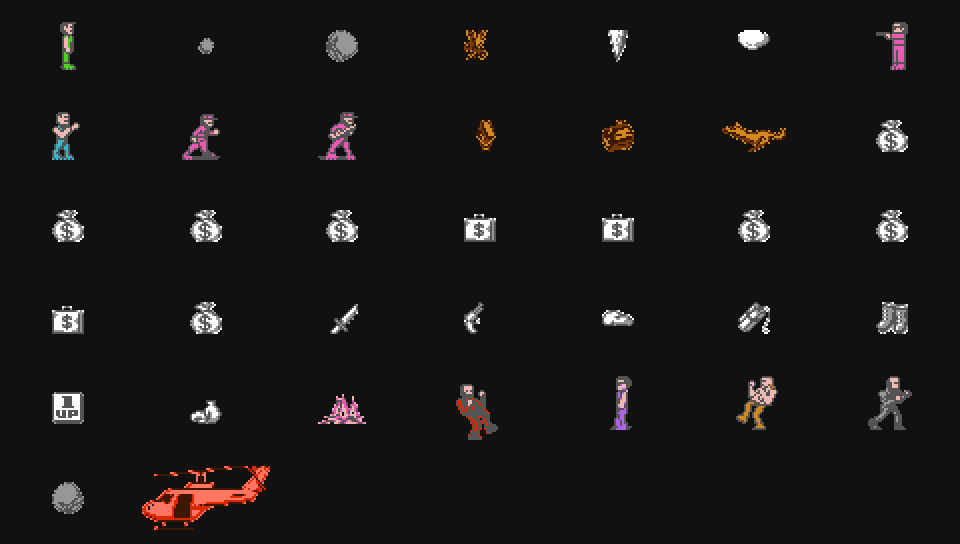
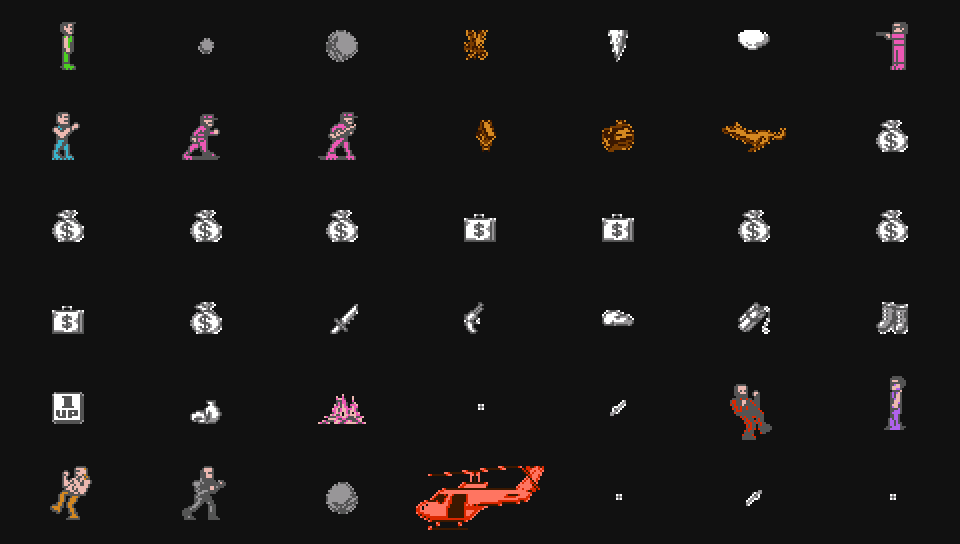
Cliffhanger: the shots and thrown knives in the objects table — the hero's bullet and knife, the henchmen's knife, the tree man's and the helicopter's bullets

diff --git a/cliffhanger/src/objects-table.ts b/cliffhanger/src/objects-table.ts
@@ -81,17 +81,27 @@ ppu.scanline = (line) => {
 /**
  * The objects the lists do not place: each section's own code puts them in a slot (no entry behind
  * it at $6D-$70, or the fifth slot), known by the handler the slot runs (byte 1; a list's kind runs
- * its template's byte 11 there: the bags $10/$11, the wolf $30). The bosses, the helicopter and the
- * falling rocks; not the shots and thrown knives ($01, $03, $33, $34, $36), which are not things on
- * the mountain. Read off the run's frames (STATUS §15).
+ * its template's byte 11 there: the bags $10/$11, the wolf $30). The bosses, the helicopter, the
+ * falling rocks, and the shots and thrown knives — the hero's (his pistol's bullet $01 and his knife
+ * $03, in the fifth slot) and the others' (a henchman's knife $34, the bullet of the one up a tree
+ * $33 — he himself is a list's $06 —, the helicopter's bullet $36): the user asked for those too.
+ * Read off the run's frames (STATUS §15). A shot is one small sprite, maybe in the hero's own tiles
+ * ($40-$7F): the one nearest its place within 16 px (its thrower's hand is often next to it; the
+ * tree man's bullet is drawn 12 px off its place), the hero's tiles going only to his own shots, and
+ * only outside his box (his arm raised to shoot stuck to the helicopter's bullet).
  */
-const CODE: Record<number, { name: string; group: string; big: boolean; note: string }> = {
+const CODE: Record<number, { name: string; group: string; big: boolean; shot?: boolean; note: string }> = {
   0x2a: { name: 'boss', group: 'boss', big: true, note: 'at the cabin, section 5' },
   0x2b: { name: 'boss', group: 'boss', big: true, note: 'on the snow slope, section 8' },
   0x2c: { name: 'boss', group: 'boss', big: true, note: 'in the ice cave, section 11' },
   0x31: { name: 'helicopter', group: 'boss', big: true, note: 'it shoots from above, section 14' },
   0x2d: { name: 'the last boss', group: 'boss', big: true, note: 'the last fight, section 15' },
   0x2f: { name: 'falling rock', group: 'hazard', big: false, note: 'put by the sections’ own code' },
+  0x01: { name: 'bullet', group: 'shot', big: false, shot: true, note: 'the hero’s, from the pistol' },
+  0x03: { name: 'thrown knife', group: 'shot', big: false, shot: true, note: 'the hero’s' },
+  0x33: { name: 'bullet', group: 'shot', big: false, shot: true, note: 'a henchman’s, the one up a tree' },
+  0x34: { name: 'thrown knife', group: 'shot', big: false, shot: true, note: 'the henchmen’s' },
+  0x36: { name: 'bullet', group: 'shot', big: false, shot: true, note: 'the helicopter’s' },
 };
 const codeSections = new Map<number, Set<number>>();
 /**
@@ -117,14 +127,15 @@ for (let f = 985; f <= end; f++) {
   const near = (x: number) => { while (x < cam.x - 512) x += 2048; while (x > cam.x + 1536) x -= 2048; return x; };
   // Every slot on: a list's kind (its entry at $6D-$70), one of the code's (CODE, by its handler at
   // byte 1, as 0x100 + it), or anything else (a shot: -1), which keeps its own sprites.
-  const slots: { kind: number; sx: number; sy: number; big: boolean }[] = [];
+  const slots: { kind: number; sx: number; sy: number; big: boolean; shot: boolean; heroShot: boolean }[] = [];
   for (let k = 0; k < 5; k++) {
     const b = 0x633 + 0x1f * k, idx = k < 4 ? m.ram[0x6d + k] : 0xff;
     if (!(m.ram[b] & 1)) continue;
     const p = pos(b);
     const fromList = idx < 0xfe && (m.ram[0x51e] | m.ram[0x51f]) !== 0;
     const kind = fromList ? prg[base + 9 * idx + 1] : CODE[m.ram[b + 1]] ? 0x100 + m.ram[b + 1] : -1;
-    slots.push({ kind, sx: near(p.x) - cam.x, sy: p.y - cam.y, big: kind >= 0x100 && CODE[kind - 0x100].big });
+    const code = kind >= 0x100 ? CODE[kind - 0x100] : null;
+    slots.push({ kind, sx: near(p.x) - cam.x, sy: p.y - cam.y, big: !!code?.big, shot: !!code?.shot, heroShot: kind === 0x101 || kind === 0x103 });
     if (kind >= 0x100) (codeSections.get(kind) ?? codeSections.set(kind, new Set()).get(kind)!).add(m.ram[0x40a] + 1);
   }
   const pl = pos(0x614);
@@ -158,17 +169,23 @@ for (let f = 985; f <= end; f++) {
   for (let k = 0; k < 64; k++) {
     if (oam[k * 4] >= 0xef) continue;
     const y = oam[k * 4] + 1, x = oam[k * 4 + 3];
-    if (isHero(oam[k * 4 + 1])) continue;
+    // The hero's tiles: his own in his box; outside it only a shot's (his bullet, his knife).
+    const heroTile = isHero(oam[k * 4 + 1]);
+    if (heroTile && x >= qx - 4 && x < qx + 24 && y >= qy - 4 && y < qy + 40) continue;
     let best = -1, bd = Infinity;
     slots.forEach((sl, i) => {
-      if (sl.big ? x < sl.sx - 48 || x >= sl.sx + 72 || y < sl.sy - 40 || y >= sl.sy + 56 : x < sl.sx - 16 || x >= sl.sx + 40 || y < sl.sy - 24 || y >= sl.sy + 40) return;
+      // The hero's tiles outside his box: only his own bullet and knife (his arm raised is above it).
+      if (heroTile && !sl.heroShot) return;
+      if (sl.shot ? x < sl.sx - 16 || x >= sl.sx + 16 || y < sl.sy - 16 || y >= sl.sy + 16 : sl.big ? x < sl.sx - 48 || x >= sl.sx + 72 || y < sl.sy - 40 || y >= sl.sy + 56 : x < sl.sx - 16 || x >= sl.sx + 40 || y < sl.sy - 24 || y >= sl.sy + 40) return;
       const d = Math.hypot(x + 4 - (sl.sx + 8), y + 4 - (sl.sy + 12));
       if (d < bd) (bd = d), (best = i);
     });
     if (best >= 0) (mine.get(best) ?? mine.set(best, []).get(best)!).push([x - slots[best].sx, y - slots[best].sy, oam[k * 4 + 1], oam[k * 4 + 2]]);
   }
-  for (const [i, sprites] of mine) {
+  for (const [i, all] of mine) {
     const sl = slots[i];
+    // A shot is one sprite: the one nearest its place (its thrower's hand is often next to it).
+    const sprites = sl.shot ? [[...all].sort((a, b) => Math.hypot(a[0], a[1]) - Math.hypot(b[0], b[1]))[0]] : all;
     if (sl.kind < 0 || (sl.kind < 0x100 && (!kinds.has(sl.kind) || ITEMS[sl.kind]))) continue;
     // Wholly on the field (a boss's or the helicopter's place may be its top).
     if (sl.big ? sl.sx < 8 || sl.sx > 200 || sl.sy < 8 || sl.sy > 120 : sl.sx < 24 || sl.sx > 200 || sl.sy < 24 || sl.sy > 130) continue;
@@ -303,7 +320,7 @@ for (const [t, c] of Object.entries(CODE).map(([t, c]) => [Number(t), c] as cons
     .sort((a, b) => (c.big ? tall(b) - tall(a) : 0) || b.sprites.length - a.sprites.length || b.n - a.n)[0];
   const file = `kinds/code-${t.toString(16)}.png`;
   const { w, h } = draw(look, `out/levels/${file}`);
-  const id = `$${t.toString(16).toUpperCase()}`;
+  const id = `$${t.toString(16).toUpperCase().padStart(2, '0')}`;
   const sections = [...(codeSections.get(0x100 + t) ?? [])].sort((a, b) => a - b);
   out.push({ kind: 0x100 + t, id, name: c.name, group: c.group, item: false, worth: null, count: null, sections, note: c.note, code: true, img: file, w, h });
   console.log(`${id} (code): ${look.sprites.length} sprites, ${look.n} of ${ways.reduce((q, v) => q + v.n, 0)} frames (first ${look.frame}), ${w} x ${h}`);

diff --git a/cliffhanger/STATUS.md b/cliffhanger/STATUS.md
@@ -390,3 +390,8 @@ the boots and the like — no enemies; and as many on the map as the hero can ta
   him alone), not by a box round him: the box cut the legs off the bosses $2A and $2C where he
   stands against them (the user saw it). The bosses' pictures: the tallest of their common poses
   ($2B's commonest fullest is a flying kick, lying across).
+- The shots and thrown knives (the user: "the knife an enemy throws, and the bullets when you shoot",
+  2026-11-16), put by the game's code as they are fired: `$01` the hero's bullet, `$03` his thrown
+  knife (the fifth slot), `$34` the henchmen's knife, `$33` the bullet of the henchman up a tree
+  (he himself is a list's `$06`, at the same place), `$36` the helicopter's bullet. A shot's picture is
+  one sprite, the nearest its place within 16 px; the hero's tiles go only to his own shots.
